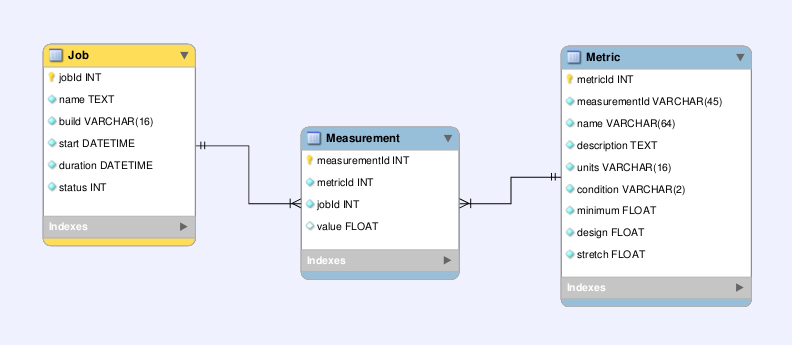
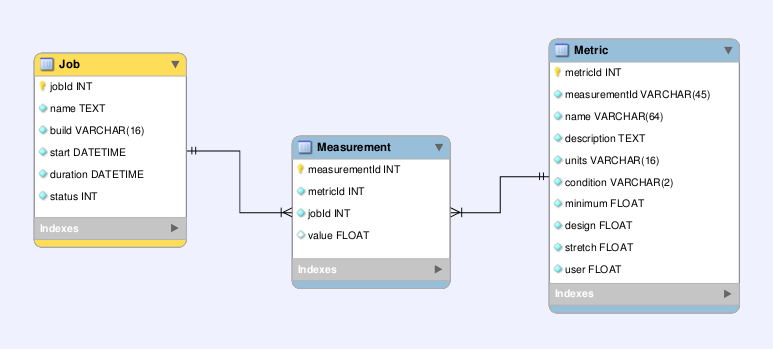
Updated document with a description of the API for the dashboard app.

Changed region(s): [[0.031, 0.087, 0.9625, 0.8986]]

diff --git a/index.rst b/index.rst
@@ -185,6 +185,8 @@ characterize a metric, its measurement and information about the job that perfor
 
    Level 0 database schema.
 
+The metrics table is initialized with the values specified in
+
 The API provides endpoints for each table http://localhost:8000/api/, for instance:
 
 .. figure:: _static/api-metric.png
@@ -213,7 +215,8 @@ with the API, metrics can be inserted as follows:
                   'units': 'millimag',
                   'minimum': '8',
                   'design': '5',
-                  'stretch': '3'
+                  'stretch': '3',
+                  'user': '10',
                   }
    >>> response = requests.post(api['metric'], data=metric)
    >>> response.status_code
@@ -430,14 +433,14 @@ uses the template to render the ``layouts/dashboard.html`` layout.
 With that it's easy to add new prototpype layout pages and have dynamic links to them. See below example of prototype pages.
 
 .. figure:: _static/home.png
-   :name: fig-components
+   :name: fig-home
    :target: _static/home.png
    :alt: Prototype layout for SQUASH home
     
    Prototype layout for SQUASH home 
 
 .. figure:: _static/dashboard.png
-   :name: fig-components
+   :name: fig-dashboard
    :target: _static/dashboard.png
    :alt: Prototype layout for SQUASH dashboard
     
